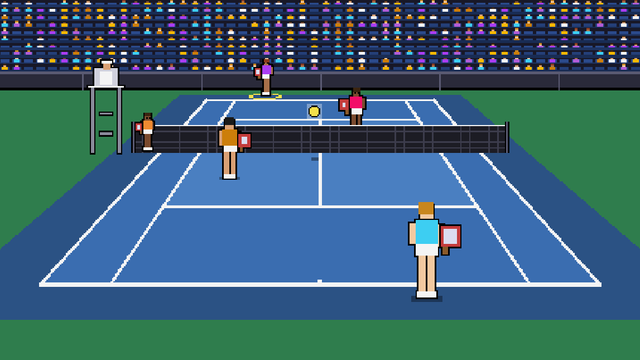
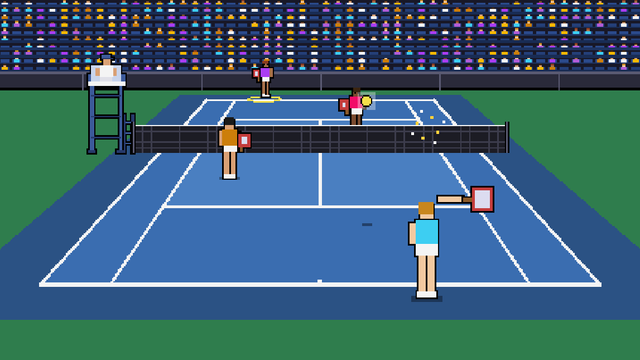
Tennis: retake the Games-screen tile (issue #456) (#462)
* Tennis: retake the tile; make_tiles.gd: no A press, no approval card (issue #456)

Claude-Session: https://claude.ai/code/session_018NHRQo9i8UR3X2ALPGv1Gs

* Address the review of PR 462: Test 12 step 9 is Not run again, the tile generator reports a toss that never reaches its top

Claude-Session: https://claude.ai/code/session_018NHRQo9i8UR3X2ALPGv1Gs

* Test 12 row of Tests to run: step 9 is open again, recount

Claude-Session: https://claude.ai/code/session_018NHRQo9i8UR3X2ALPGv1Gs

---------

diff --git a/docs/MANUAL_TESTS.md b/docs/MANUAL_TESTS.md
@@ -114,7 +114,7 @@ Tests the user has to run now (status on 2026-11-17 after run R9; the list is in
 | 16 | **Open: items 6b2** (after run R7 of 2026-11-10; 11 of 12 steps are Pass or N/A in the Results table). | Phase 1 of `docs/ARCADE_STYLE_PLAN.md` was built on 2026-10-10. Needed before it is merged. The games are in the pixel style too (phases 2 to 4 are built). All sizes and values come from the plan |
 | 7 | **Open: items 6a, 6b, 6f, 6g, 6h, 6i, 9a and 9b** (after run R7 of 2026-11-10; 9a and 9b changed on 2026-11-10 with the softer lost-link look, issue #433, and are Not run again; 6b changed with the text HOLD TO DISCONNECT and 6f to 6i are new, issue #435, REQ-FL-52c). | R1 found that a phone without Wi-Fi did not pause the game, and that a phone call ended the game with no way to resume. Fixed and changed on 2026-10-09 (REQ-GM-30, 30a) |
 | 8 | **Open: item 6b** (changed 2026-11-10, issue #435: Back on the phone in a game asks the TV "End the game?"; the other steps are Pass in R3 to R5). | Back on the pad in a game no longer opens QUIT SABABI APP? on the phone (REQ-FL-52c, REQ-FL-55). Needs a phone and the real Android Back key |
-| 12 | **Open: items 1c, 10, 11** (after run R7 of 2026-11-10; 10 of 13 steps are Pass or N/A in the Results table). | REQ-GM-49. Claude makes the tiles again when they differ |
+| 12 | **Open: items 1c, 9, 10, 11** (after run R9 of 2026-11-17; 9 of 13 steps are Pass or N/A in the Results table). Step 9 (the Tennis tile) is Not run again: the tile was retaken on 2026-11-17 (issue #456). | REQ-GM-49. Claude makes the tiles again when they differ |
 | 13 | **Next release (iOS, issue #415).** **Open: items 1a, 1b, 2b, 2c, 2d, 4a, 4b, 5a, 5b, 5c, 6b, 6d, 7** (after run R9 of 2026-11-17; 0 of 13 steps are Pass or N/A in the Results table). | New on 2026-10-09. Written on a Mac without Xcode, so never run |
 | 33 | **Next release (iOS, issue #415).** **New (iPhone QR scanner).** An iPhone with a Mac and Xcode: build the plugin and deploy (1a), the scan button, the camera question on the first scan and the view (2a, 2b, 3a, 3b), a TV code, a profile code and a web page code (4a to 4d), CANCEL, swipe down and the home button (5a to 5c), the camera off in Settings and on again (6a, 6b), no photo saved and only Camera and Local Network listed (7a, 7b), Hebrew from a Hebrew reader (8a), a dark room and a child of 5 to 8 years (9a, 9b). Run test 13 steps 1a to 2d first. Nothing here can be done headless | The iPhone scanner was planned on 2026-11-01 (`docs/IOS_SCANNER_PLAN.md`, issue #299, REQ-FL-58, 88 to 92). The plugin source is written on Linux and was never built or run: every value, the plugin and the texts (also the Hebrew camera question) are unverified. Needed before it is merged and before the privacy notice text about the iPhone camera is final |
 
@@ -620,7 +620,7 @@ A tile has a 16:9 picture. The colors and the objects of each tile file (the gro
 4b. Check the tiles of **Air Hockey** and **Paint Grab** (remade 2026-10-29, issue #123). Check: Air Hockey has a black floor and dark gray rails around the white table; Paint Grab shows no stars under a black bar. (REQ-GM-49)
 5. Check the tile of **Paint Grab**. Check: the hidden picture shows in the floor. (The floor, the bonus pot and the four blobs are checked by A-12-5.)
 8. Check the tile of **Bowling**. Check: the 10 pins stand in a triangle and the ball is between the foul line and the pins. (The lane and the white shapes are checked by A-12-8; the test counts 138 white blobs and does not count the 10 pins.)
-9. Check the tile of **Tennis**. Check: the ball is high over the near half of the court. (The grass, the court, the ball and the players are checked by A-12-9.)
+9. Check the tile of **Tennis**. Check: the ball is in the air over the court (a serve just hit by the near player, with the racket out). (The grass, the court, the ball and the players are checked by A-12-9.)
 10. Check the tile of **Mini Golf**. Check: the course is seen from above, three balls wait on the tee and a ball is between the tee and the hole (remade 2026-11-03). (The fairway, the lake, the windmill and the players are checked by A-12-10.)
 11. Open the settings view of each of the 15 games. From the sofa (about 3 m), read the how-to-play text aloud. Check: the tester reads the text of each game without error and without a cut or hidden line (15 of 15), and Back and Start are fully on the screen (15 of 15). (REQ-GM-103, issue #77)
 
@@ -640,7 +640,7 @@ Items 1a, 1b, 1d, 3a, 6 and 7 moved to the automated tests (`docs/AUTOMATED_TEST
 | 4b | Photo of the two tiles and of the running games | Pass | R7 |  | R7: Pass Added 2026-10-29 (issue #123). |
 | 5 | Photo of the tile and of the running game | Pass | R4 |  | Paint Grab tile remade 2026-10-16. |
 | 8 | Photo of the Bowling tile next to a photo of the game | Pass | R7 |  | R7: Pass Before (R4): Retest - R4: Fail - in the tile show the bawling tracks without the score board but fill the tile. currently there's a gray area in the bottom which doesn't look good Issue #112. |
-| 9 | Photo of the Tennis tile next to a photo of the game | Pass | R4 |  |  |
+| 9 | Photo of the Tennis tile next to a photo of the game | Not run |  |  | R4: Pass on the old tile and the old text (the ball high over the near half). The tile was retaken on 2026-11-17 (issue #456) and the step reworded: run it again. |
 | 10 | Photo of the Mini Golf tile next to a photo of the game | Not run |  |  | The tile was remade on 2026-11-03 (view from above, a golfer and one white ball). The R4 Pass was for the old tile and no longer counts: retest. |
 | 11 | Photos of the 15 settings views from the sofa; the number read without error | Retest | R4 |  | R4: Pass, counted 13 settings views (13 games then). Reset to Retest on 2026-11-01: the step counts 15 games. Count 15 at the next run. |
 
@@ -1338,6 +1338,7 @@ History:
 
 - 2026-11-17 (steps removed, where each is covered; owner decisions of 2026-11-17, issues #457 and #458): step 14b (4 phones: each tester names the shirt color of the two far characters, 2 of 2 for each of 3 testers; it was Not run) is covered by A-25-14b (`smoke_tennis_phones`, new: with 4 phones each of the 4 characters, near and far, wears the color of its phone, and the 4 colors differ; the palette is A-237-1). Step 16e (the overlay counts 1 swing for a swing and the stroke back at once and 2 for strokes 0.7 s apart; it was Not run) is covered by A-25-16e (`swing_replay`, A-24-6: a stroke and the stroke back at once is one swing; two strokes 0.5 s and 1.0 s apart are both found). Step 16h lost its overlay half (the counter `swing_count`); the hit on the forward move, in 9 of 10 strokes, 0 of 10 back-only and 0 of 10 forward-only, stays (it passed in R9 with both halves; the result stays). Stray rows 14d and 14e of Test 26 in the Results table of this test are removed. What is not verified by anything now: that 3 testers name the shirt colors from 3 m (REQ-TN-3), and the swing counter of the real phone in a Tennis game (the hit counted on the forward move is still checked by a person in 16h). The Needs line says 1 to 2 phones.
 - 2026-11-17 (recorded; R9 in the tracker): Pass: steps 2b, 4g, 6c, 6e, 6h, 12a, 12b, 12c, 12d, 14a, 14c, 15a, 15c, 16a, 16h. Fail: step 1b. Step 1b Fail: issue #456 (retake the tile). Steps 16b, 16c, 16d, 16f and 16g: the toss is automatic since 2026-11-14, the owner verified them and asked to set them to Pass after the step text changed (16c and 16f were changed today to not use the A button). Step 14b (4 phones) and step 16e (debug overlay) were marked N/A and are removed (issues #457, #458).
+- 2026-11-17 (tile retaken, issue #456; not run): `assets/tiles/tennis.png` was made again with `tools/make_tiles.gd --only=tennis` (the tool had two stale parts: it pressed the removed A button, and the join approval card kept the simulated phones out). The new tile shows the court, the net, 4 characters and the ball in the air over the far half (a serve just hit, the racket of the near player out), with no HUD; step 9 of Test 12 said "high over the near half" and now says "in the air over the court". Step 1b of this test and the Tennis tile step of Test 12 stay device checks: look at the new tile next to the game on the TV. The R9 Fail of step 1b stays until the owner reports a new result.
 
 ## Test 26
 
